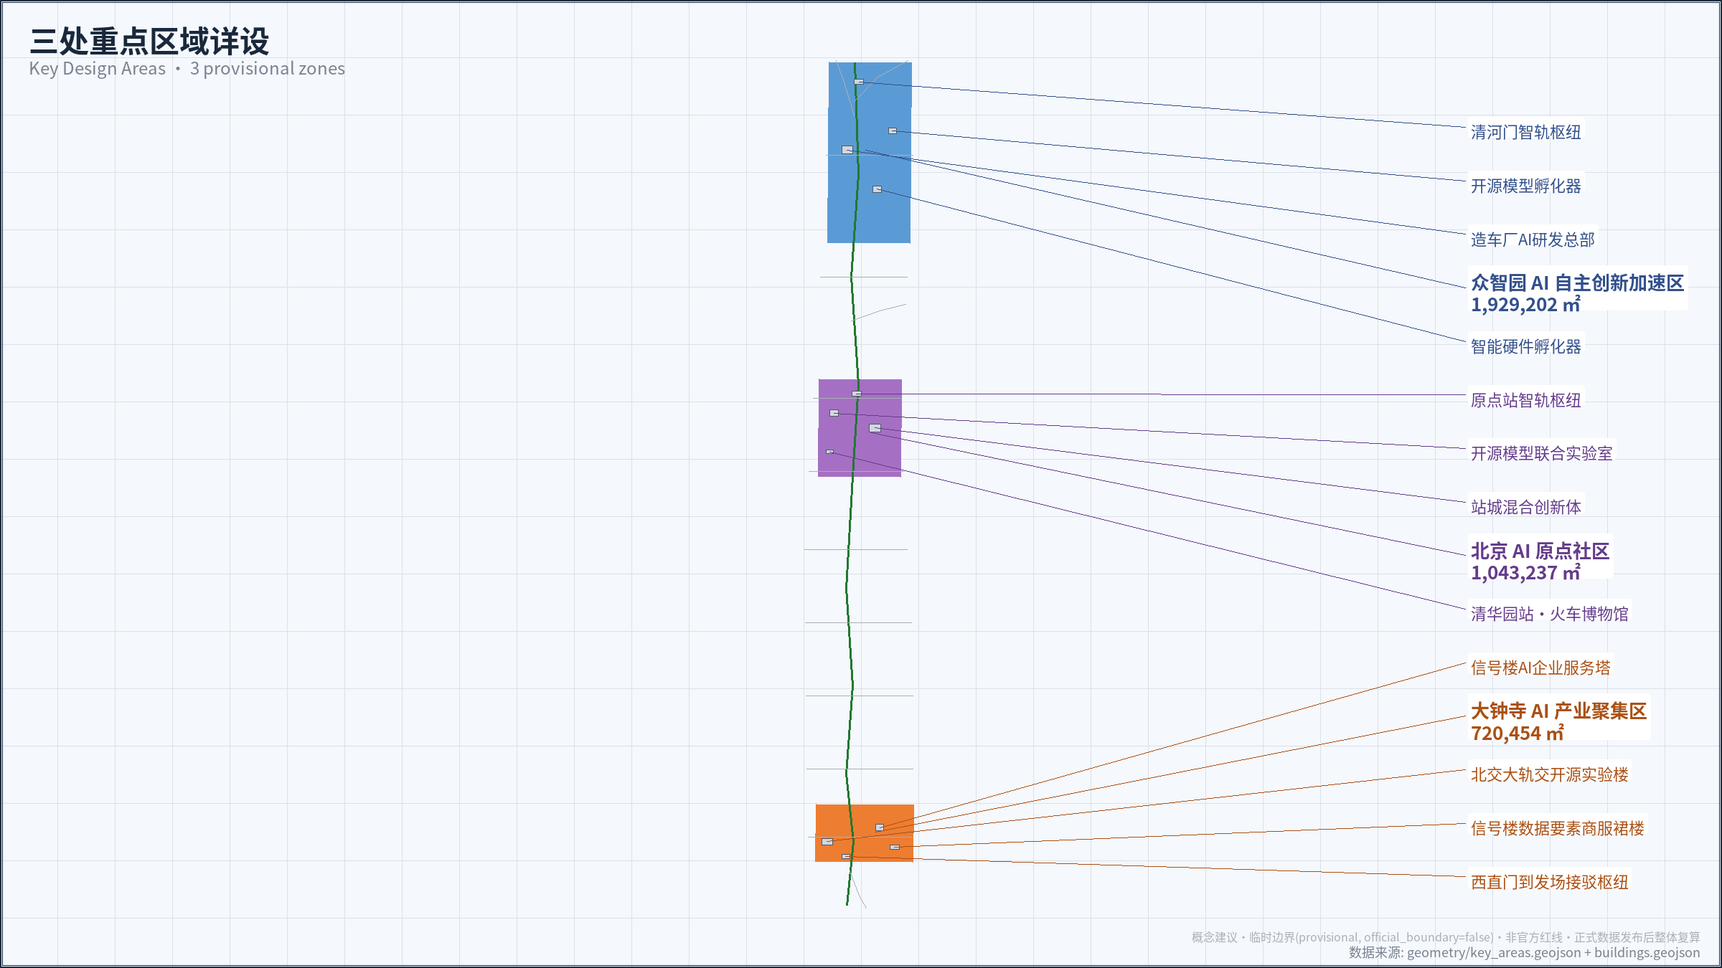
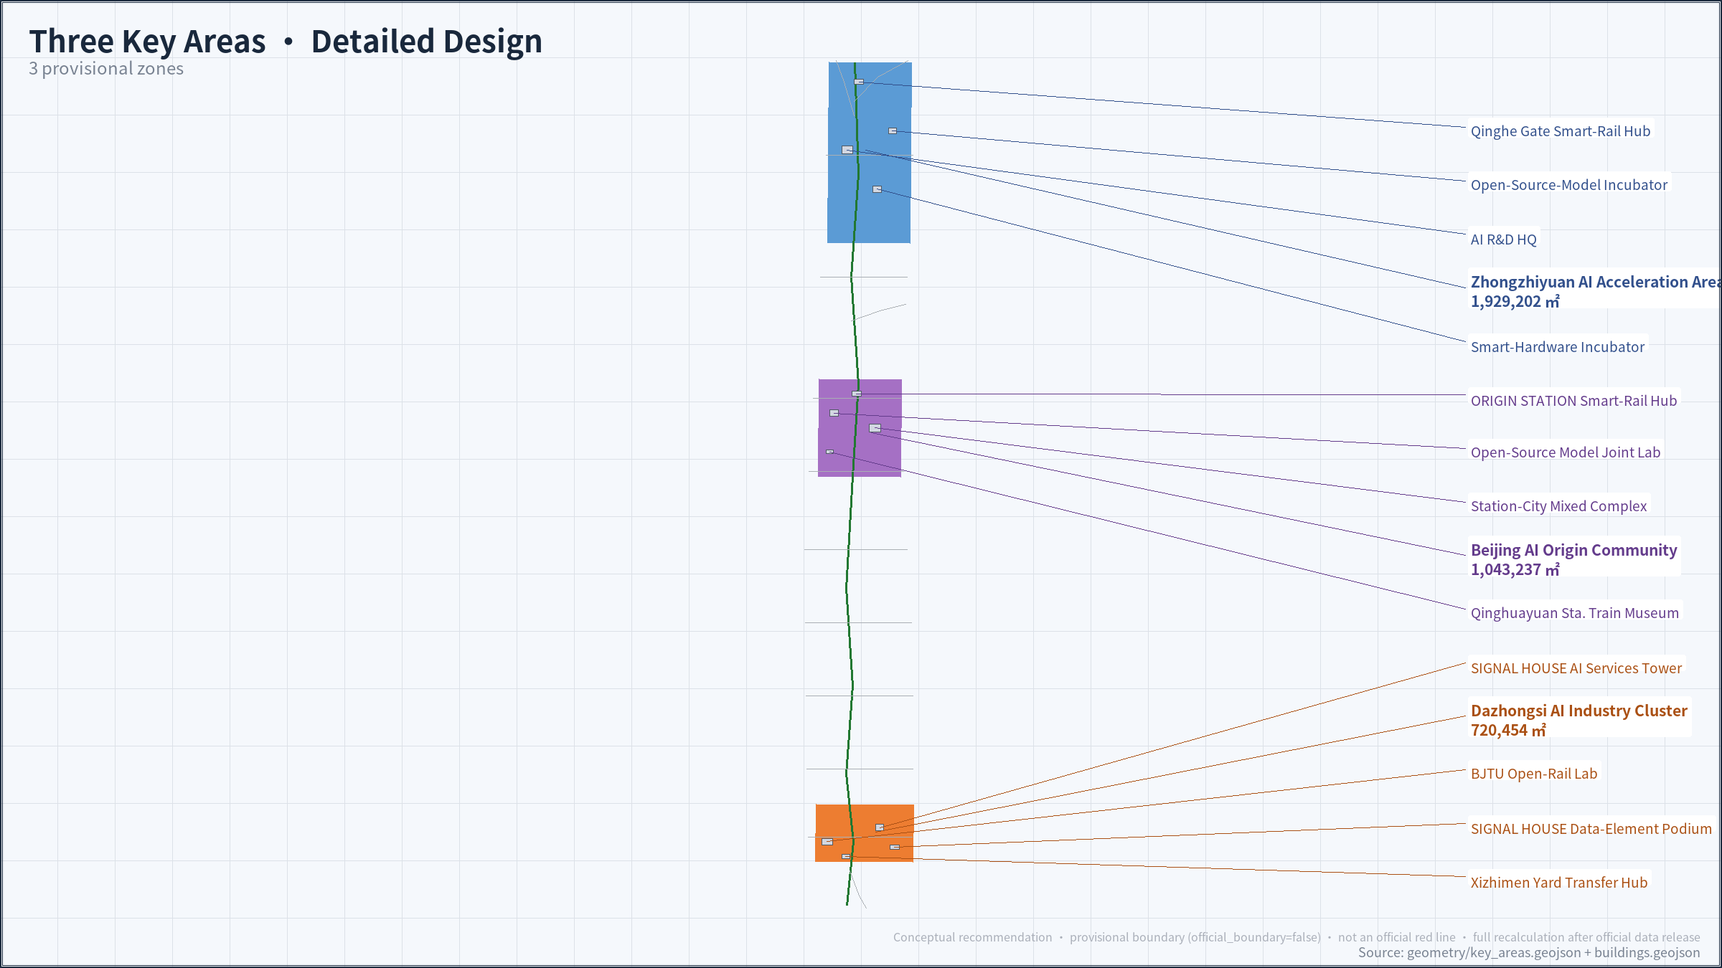
fix(submission): real English figures + review comment repairs
- Render the five *.en.png figures from the same GeoJSON/metrics with
  English labels (previously byte-identical copies of the zh figures);
  proposal.en.md and report/proposal.en.html now reference .en.png.
- public_space.geojson: set industry_test_validation=true for SCN-03,
  SCN-04, SCN-05, matching the three validation scenarios in proposal.md
  (Copilot review on PR #1767).
- copyright_statement.md / narrative.md: cover visual/index.en.html
  alongside visual/index.html (Copilot review on PR #1767).
- Manifest hashes refreshed; self-check PASS (formal-review-ready).

diff --git a/submissions/SKJrpg/agent-line/report/proposal.en.html b/submissions/SKJrpg/agent-line/report/proposal.en.html
@@ -106,7 +106,7 @@ code {
 <p>A conceptual structure of one line, three stations, two wings, and three gates is overlaid on the three-level scope. The one line is 智轨主线 THE MAINLINE, the nine-kilometre heritage green corridor and Walking and Cycling Network spine. The three stations are 造车厂 THE WORKS (Zhongzhiyuan), 原点站 ORIGIN STATION (Beijing AI Origin Community), and 信号楼 SIGNAL HOUSE (Dazhongsi). The two wings are 售票厅 TICKET HALL (Zhongguancun Technology Services Wing) and 试车线 TEST TRACK (Xiaoyue River Scenario Enablement Wing).</p>
 <p>The three gates are Qinghe Gate (north end), Huanqiao Gate (crossing over the ring road), and Xizhimen Arrival-Departure Yard (south end), corresponding to the three landmark urban landscape nodes required by the announcement at the south end, the north end, and the crossing over the ring road. The BJTU node, 轨交开源试验场 BJTU OPEN RAIL LAB, is included in the south-end sub-area, echoing the twin-origin narrative of the 1909 Beijing-Zhangjiakou Railway and the Railway Management Training Institute. <span class="evidence evidence-source">[source:OFFICIAL-ANNOUNCEMENT]</span> <span class="evidence evidence-source">[source:AGENT-TASKBOOK]</span></p>
 <p>The three levels of work cascade from strategy to space to verification: the coordinated level judges industry and urban form, the overall design level lands on land-use, building, road, green-space, public-space, and phasing layers, and the key-area level verifies the feasibility of specific scenarios. All boundaries in this chapter and throughout the text are provisional; once official data is released, all layers, metrics, drawings, and HTML must be regenerated as one dataset, not by replacing single files. <span class="evidence evidence-depth">[depth:three_level_scope_framework]</span> <span class="evidence evidence-depth">[depth:overall_spatial_structure]</span></p>
-<figure class="proposal-figure"><img src="../assets/figures/site-overview.png" alt="Overall concept and three-level scope"><figcaption>Overall concept and three-level scope</figcaption></figure>
+<figure class="proposal-figure"><img src="../assets/figures/site-overview.en.png" alt="Overall concept and three-level scope"><figcaption>Overall concept and three-level scope</figcaption></figure>
 <h2>Coordinated Research Area: Industry and Future City Research</h2>
 <p>The naming system is the first carrier of the industrial narrative. The master name 京张智轨 AGENT LINE is a double pun: the smart rail is both an intelligent track and a track of intelligent rules. 造车厂 THE WORKS corresponds to the locomotive depot, manufacturing agent locomotives; 原点站 ORIGIN STATION corresponds to the main passenger station, organizing the arrival and departure of talent and the marshalling of results; 信号楼 SIGNAL HOUSE borrows the signal imagery of the ancient Dazhongsi bell, organizing the exchange of data elements. The logo direction is the zigzag of a herringbone switchback plus the I-beam cross-section of a rail, colored in rail grey, Zhan Tianyou bronze, and signal green; all are original directions, and formal registration and font trademarks require separate legal searches.</p>
 <p>The industry research connects with the Haidian 1+X+1 industrial system and the Three Zones and Two Wings coordination. THE WORKS focuses on full-stack independent AI innovation, standards setting, and safety governance; ORIGIN STATION focuses on near-campus achievement transformation and the open-source ecosystem; SIGNAL HOUSE focuses on agents, intelligent terminals, content consumption, and data-element circulation; TICKET HALL organizes the intermodal transport of capital and professional services; TEST TRACK organizes scenario testing and validation. This division of labor is a Conceptual Recommendation for industrial spatial organization and does not presuppose that any institution or enterprise has committed to moving in. <span class="evidence evidence-source">[source:OFFICIAL-ANNOUNCEMENT]</span> <span class="evidence evidence-source">[source:AGENT-TASKBOOK]</span></p>
@@ -126,7 +126,7 @@ code {
 <p>The overall design divides the 11.4-square-kilometre provisional extent into eleven complete and non-overlapping land-use zones, and the recalculated total area is consistent with the Provisional Boundary. <span class="evidence evidence-data">[data:geometry/land_use.geojson#LU-001]</span> <span class="evidence evidence-standard">[standard:MNR-LAND-USE-CLASSIFICATION-GUIDE]</span></p>
 <p>The structure can be summarized as one corridor, two belts, three cores, and multiple points: the green corridor of 智轨主线 THE MAINLINE runs north-south <span class="evidence evidence-data">[data:geometry/land_use.geojson#LU-007]</span>, research and commercial-service clusters attach to the three stations, and residential and community-service belts balance jobs and housing. <span class="evidence evidence-data">[data:geometry/land_use.geojson#LU-011]</span></p>
 <p>Urban renewal adopts the conceptual framework of interfaces first, carriers later; reversible first, permanent later. The first step builds public interfaces with the open spaces of the heritage park and the ground floors of existing buildings; the second step verifies scenarios with lightweight signage, events, and movable facilities; only in the third step do professional teams decide on adaptive reuse based on ownership, building safety, Regulatory Detailed Planning, and heritage conservation conditions. The identification of underused space and the renewal project list are expressed as conceptual zones; see the phasing chapter for details. <span class="evidence evidence-depth">[depth:land_use_layout]</span></p>
-<figure class="proposal-figure"><img src="../assets/figures/land-use-structure.png" alt="Land-use structure"><figcaption>Land-use structure</figcaption></figure>
+<figure class="proposal-figure"><img src="../assets/figures/land-use-structure.en.png" alt="Land-use structure"><figcaption>Land-use structure</figcaption></figure>
 <p>Regulatory-plan-level depth is embodied in this package as a clear distinction among three kinds of conclusions. The first kind is recalculable geometric facts inside the package, such as land-use areas and ratios; the second kind is design principles, such as open ground floors, continuous walking and cycling, and reversible components; the third kind must wait for official conditions, including Floor Area Ratio, building height, Building Coverage Ratio, green-space ratio, setbacks, road red lines, and facility standards. <span class="evidence evidence-standard">[standard:MOHURD-CONTROL-DETAILED-PLANNING]</span> <span class="evidence evidence-depth">[depth:development_intensity_controls]</span></p>
 <p>All Regulatory Detailed Planning indicators of the third kind above are subject to the forthcoming pre-qualification annexes and the formal Regulatory Detailed Planning, and this proposal makes no precise commitments; the Floor Area Ratio in metrics remains unknown with the reason noted. <span class="evidence evidence-metric">[metric:floor_area_ratio]</span> This downgrade is not missing content but leaves statutory judgment in the correct professional procedure, meeting the dual requirements of the announcement on deliverable depth and compliance boundaries. <span class="evidence evidence-source">[source:OFFICIAL-ANNOUNCEMENT]</span></p>
 <h2>Detailed Design of Key Areas</h2>
@@ -138,7 +138,7 @@ code {
 <p>信号楼 SIGNAL HOUSE (Dazhongsi AI Industry Cluster, announced at about 72.0 hectares) is positioned as an urban intelligent-economy district, organizing space around the leading-enterprise ecosystem, the circulation of data elements and digital assets, and agents and content consumption. <span class="evidence evidence-data">[data:geometry/buildings.geojson#BLDG-009]</span></p>
 <p>The integration of Dazhongsi Station and the four-quadrant pedestrian connection of its exits are listed as optimization goals per the announcement. The south end connects to the BJTU 轨交开源试验场 BJTU OPEN RAIL LAB, undertaking transport foundation-model testing and rail-transit agent standards experiments. <span class="evidence evidence-data">[data:geometry/land_use.geojson#LU-010]</span> <span class="evidence evidence-data">[data:geometry/buildings.geojson#BLDG-011]</span></p>
 <p>The three-zone synergy is a conceptual closed loop: ORIGIN STATION produces knowledge and marshals it, THE WORKS verifies and manufactures, SIGNAL HOUSE circulates and dispatches, the Xiaoyue River TEST TRACK feeds back real usage problems, and TICKET HALL reinvests capital and services. Knowledge, test reports, and exit reasons enter the same scenario registry, forming a reusable urban learning asset rather than a showcase of successes only. <span class="evidence evidence-metric">[metric:key_area_count]</span></p>
-<figure class="proposal-figure"><img src="../assets/figures/key-areas.png" alt="Detailed design of key areas"><figcaption>Detailed design of key areas</figcaption></figure>
+<figure class="proposal-figure"><img src="../assets/figures/key-areas.en.png" alt="Detailed design of key areas"><figcaption>Detailed design of key areas</figcaption></figure>
 <h2>AI Innovation Ecosystem, Personas, and AI+ Scenarios</h2>
 <p>The innovation ecosystem is organized as arrival and departure, marshalling, test running, and dispatch: university and laboratory results arrive and depart at ORIGIN STATION, are marshalled in the open-source system, undergo controlled validation on the TEST TRACK and at the BJTU test field, and enter urban application through SIGNAL HOUSE. TICKET HALL provides a one-stop conceptual window for policy, computing power, and financing; public policies such as the Haidian OPC Eight Measures are the real-world background of this judgment. <span class="evidence evidence-source">[source:NEWS-AI-ORIGIN-COMMUNITY]</span> <span class="evidence evidence-source">[source:AGENT-TASKBOOK]</span></p>
 <p>The proposal uses six personas to test whether space and operations are people-centred. The personas serve only as design-review roles; they collect no identity or trajectory data and do not constitute a personal profiling database.</p>
@@ -199,7 +199,7 @@ code {
 <p>The transport scheme builds on the three-paths-one-green seamless Walking and Cycling Network of the heritage park: three independent walking, jogging, and cycling paths were completed with phase two, and the cycling path connects to the Huilongguan bicycle-only road. <span class="evidence evidence-source">[source:NEWS-JINGZHANG-PARK-PHASE2]</span> The conceptual action is to repair the three walking-and-cycling breakpoints at Chengfu Road, Zhichun Road, and the North Fifth Ring Road, stitching the blocks on the east and west sides; nine east-west stitching branch roads echo the public plan of nine urban branch roads opened with park phase two. <span class="evidence evidence-data">[data:geometry/roads.geojson#ROAD-005]</span> <span class="evidence evidence-data">[data:geometry/roads.geojson#ROAD-013]</span></p>
 <p>Transit-Station Integration is listed as a conceptual goal per the announcement task: Wudaokou and Qinghua East Road West Entrance stations serve the ORIGIN STATION sub-area, and Dazhongsi Station is the Line 13 and Line 12 transfer node, serving the SIGNAL HOUSE sub-area. The four-quadrant pedestrian connection of station exits and the organization of non-motorized static traffic await official transport data and professional review. <span class="evidence evidence-data">[data:geometry/roads.geojson#ROAD-004]</span></p>
 <p>The three-gate connection concept lines organize the arrival-and-departure experience at Qinghe Gate in the north, Huanqiao Gate crossing over the ring road, and Xizhimen Arrival-Departure Yard in the south; all are conceptual alignments, not engineering schemes. <span class="evidence evidence-data">[data:geometry/roads.geojson#ROAD-002]</span> <span class="evidence evidence-data">[data:geometry/roads.geojson#ROAD-003]</span></p>
-<figure class="proposal-figure"><img src="../assets/figures/mobility-bluegreen.png" alt="Mobility, walking and cycling, and the blue-green network"><figcaption>Mobility, walking and cycling, and the blue-green network</figcaption></figure>
+<figure class="proposal-figure"><img src="../assets/figures/mobility-bluegreen.en.png" alt="Mobility, walking and cycling, and the blue-green network"><figcaption>Mobility, walking and cycling, and the blue-green network</figcaption></figure>
 <p>Municipal and New Infrastructure proposes a six-item verification checklist: power and edge-computing load, communications and data security, water supply and drainage and flood control, fire protection and emergency response, solid waste and equipment maintenance, and thermal environment and carbon emissions. Distributed energy and edge computing are only conceptual layouts; the constraints layer is empty, which means the repository holds no pipeline, flood-control, fire-protection, or control-line data, so no capacity or siting conclusions are drawn. <span class="evidence evidence-data">[data:geometry/constraints.geojson#CONSTRAINTS-DATA-GAP]</span> <span class="evidence evidence-depth">[depth:municipal_new_infrastructure]</span></p>
 <p>Public services adopt a dual channel of staffed front desks plus agent navigation: information on talent, intellectual property, law, education, medical care, and events may be retrieved with agent assistance, but the source, update time, and a human contact must be shown, and medical, legal, and administrative advice is never decided by the model alone. Before the facility baseline is complete, no school, medical, or community facility capacities are fabricated. <span class="evidence evidence-depth">[depth:traffic_rail_slow_parking]</span> <span class="evidence evidence-source">[source:AGENT-TASKBOOK]</span></p>
 <h2>Blue-Green Network, Public Space, and Urban Character</h2>
@@ -244,7 +244,7 @@ code {
 <p>All fifteen mandatory items of the design depth matrix have evidence chains established. The first five are <span class="evidence evidence-depth">[depth:existing_conditions_diagnosis]</span>, <span class="evidence evidence-depth">[depth:three_level_scope_framework]</span>, <span class="evidence evidence-depth">[depth:overall_spatial_structure]</span>, <span class="evidence evidence-depth">[depth:land_use_layout]</span>, and <span class="evidence evidence-depth">[depth:development_intensity_controls]</span>.</p>
 <p>The middle five are <span class="evidence evidence-depth">[depth:height_massing_character]</span>, <span class="evidence evidence-depth">[depth:retain_renovate_demolish]</span>, <span class="evidence evidence-depth">[depth:traffic_rail_slow_parking]</span>, <span class="evidence evidence-depth">[depth:municipal_new_infrastructure]</span>, and <span class="evidence evidence-depth">[depth:blue_green_public_space]</span>.</p>
 <p>The last five are <span class="evidence evidence-depth">[depth:three_key_area_detailed_design]</span>, <span class="evidence evidence-depth">[depth:renewal_project_list]</span>, <span class="evidence evidence-depth">[depth:phasing_implementation]</span>, <span class="evidence evidence-depth">[depth:metrics_recalculation]</span>, and <span class="evidence evidence-depth">[depth:risk_missing_data]</span>.</p>
-<figure class="proposal-figure"><img src="../assets/figures/metrics-evidence.png" alt="Metrics and evidence chain"><figcaption>Metrics and evidence chain</figcaption></figure>
+<figure class="proposal-figure"><img src="../assets/figures/metrics-evidence.en.png" alt="Metrics and evidence chain"><figcaption>Metrics and evidence chain</figcaption></figure>
 <h2>Risk, Copyright, and Compliance</h2>
 <p>The primary risk is the misleading sense of precision: Provisional Boundaries and derived decimals are used only for self-check and design discussion; the text places announced approximate values side by side with in-package recalculations, and drawings carry prominent provisional notices. The second is the risk of planning overreach: Floor Area Ratio, height, coverage, Demolish–Renovate–Retain Strategy (DRR), road alignments, municipal capacity, ownership, investment, and timing all remain to be confirmed or Conceptual Recommendations; this proposal claims no official approval, no approved Regulatory Detailed Planning, and no implementation commitment. <span class="evidence evidence-depth">[depth:risk_missing_data]</span></p>
 <p>The third is the risk to privacy and dignity: all scenarios default to voluntary participation, data minimization, no reliance on facial recognition, a human channel, and the right to appeal and exit, with raised human-review levels for children, medical, legal, and public-safety scenarios. The fourth is the risk of case misuse: the seven international cases are used only for mechanism research; foreign institutions and self-reported figures are not transferred directly, and no Haidian performance prediction is made. <span class="evidence evidence-source">[source:CASE-QUAYSIDE]</span></p>

diff --git a/submissions/SKJrpg/agent-line/proposal.en.md b/submissions/SKJrpg/agent-line/proposal.en.md
@@ -49,7 +49,7 @@ The three gates are Qinghe Gate (north end), Huanqiao Gate (crossing over the ri
 
 The three levels of work cascade from strategy to space to verification: the coordinated level judges industry and urban form, the overall design level lands on land-use, building, road, green-space, public-space, and phasing layers, and the key-area level verifies the feasibility of specific scenarios. All boundaries in this chapter and throughout the text are provisional; once official data is released, all layers, metrics, drawings, and HTML must be regenerated as one dataset, not by replacing single files. [depth:three_level_scope_framework] [depth:overall_spatial_structure]
 
-![Overall concept and three-level scope](assets/figures/site-overview.png)
+![Overall concept and three-level scope](assets/figures/site-overview.en.png)
 
 ## Coordinated Research Area: Industry and Future City Research
 
@@ -79,7 +79,7 @@ The structure can be summarized as one corridor, two belts, three cores, and mul
 
 Urban renewal adopts the conceptual framework of interfaces first, carriers later; reversible first, permanent later. The first step builds public interfaces with the open spaces of the heritage park and the ground floors of existing buildings; the second step verifies scenarios with lightweight signage, events, and movable facilities; only in the third step do professional teams decide on adaptive reuse based on ownership, building safety, Regulatory Detailed Planning, and heritage conservation conditions. The identification of underused space and the renewal project list are expressed as conceptual zones; see the phasing chapter for details. [depth:land_use_layout]
 
-![Land-use structure](assets/figures/land-use-structure.png)
+![Land-use structure](assets/figures/land-use-structure.en.png)
 
 Regulatory-plan-level depth is embodied in this package as a clear distinction among three kinds of conclusions. The first kind is recalculable geometric facts inside the package, such as land-use areas and ratios; the second kind is design principles, such as open ground floors, continuous walking and cycling, and reversible components; the third kind must wait for official conditions, including Floor Area Ratio, building height, Building Coverage Ratio, green-space ratio, setbacks, road red lines, and facility standards. [standard:MOHURD-CONTROL-DETAILED-PLANNING] [depth:development_intensity_controls]
 
@@ -103,7 +103,7 @@ The integration of Dazhongsi Station and the four-quadrant pedestrian connection
 
 The three-zone synergy is a conceptual closed loop: ORIGIN STATION produces knowledge and marshals it, THE WORKS verifies and manufactures, SIGNAL HOUSE circulates and dispatches, the Xiaoyue River TEST TRACK feeds back real usage problems, and TICKET HALL reinvests capital and services. Knowledge, test reports, and exit reasons enter the same scenario registry, forming a reusable urban learning asset rather than a showcase of successes only. [metric:key_area_count]
 
-![Detailed design of key areas](assets/figures/key-areas.png)
+![Detailed design of key areas](assets/figures/key-areas.en.png)
 
 ## AI Innovation Ecosystem, Personas, and AI+ Scenarios
 
@@ -175,7 +175,7 @@ Transit-Station Integration is listed as a conceptual goal per the announcement 
 
 The three-gate connection concept lines organize the arrival-and-departure experience at Qinghe Gate in the north, Huanqiao Gate crossing over the ring road, and Xizhimen Arrival-Departure Yard in the south; all are conceptual alignments, not engineering schemes. [data:geometry/roads.geojson#ROAD-002] [data:geometry/roads.geojson#ROAD-003]
 
-![Mobility, walking and cycling, and the blue-green network](assets/figures/mobility-bluegreen.png)
+![Mobility, walking and cycling, and the blue-green network](assets/figures/mobility-bluegreen.en.png)
 
 Municipal and New Infrastructure proposes a six-item verification checklist: power and edge-computing load, communications and data security, water supply and drainage and flood control, fire protection and emergency response, solid waste and equipment maintenance, and thermal environment and carbon emissions. Distributed energy and edge computing are only conceptual layouts; the constraints layer is empty, which means the repository holds no pipeline, flood-control, fire-protection, or control-line data, so no capacity or siting conclusions are drawn. [data:geometry/constraints.geojson#CONSTRAINTS-DATA-GAP] [depth:municipal_new_infrastructure]
 
@@ -247,7 +247,7 @@ The middle five are [depth:height_massing_character], [depth:retain_renovate_dem
 
 The last five are [depth:three_key_area_detailed_design], [depth:renewal_project_list], [depth:phasing_implementation], [depth:metrics_recalculation], and [depth:risk_missing_data].
 
-![Metrics and evidence chain](assets/figures/metrics-evidence.png)
+![Metrics and evidence chain](assets/figures/metrics-evidence.en.png)
 
 ## Risk, Copyright, and Compliance
 

diff --git a/submissions/SKJrpg/agent-line/report/copyright_statement.md b/submissions/SKJrpg/agent-line/report/copyright_statement.md
@@ -1,3 +1,3 @@
 # Copyright Statement
 
-All submitted text, geometry, diagrams, PDFs, and static HTML assets are generated by the declared AI agent or use cleared public/user-provided sources listed in sources.json. No remote assets are required by visual/index.html.
+All submitted text, geometry, diagrams, PDFs, and static HTML assets are generated by the declared AI agent or use cleared public/user-provided sources listed in sources.json. No remote assets are required by visual/index.html or visual/index.en.html.

diff --git a/submissions/SKJrpg/agent-line/report/narrative.md b/submissions/SKJrpg/agent-line/report/narrative.md
@@ -1,3 +1,3 @@
 # Formal Narrative
 
-This narrative is derived from the structured AI package. Geometry, metrics, compliance matrix, drawings, and visual/index.html remain cross-checked deliverables.
+This narrative is derived from the structured AI package. Geometry, metrics, compliance matrix, drawings, and visual/index.html with visual/index.en.html remain cross-checked deliverables.
